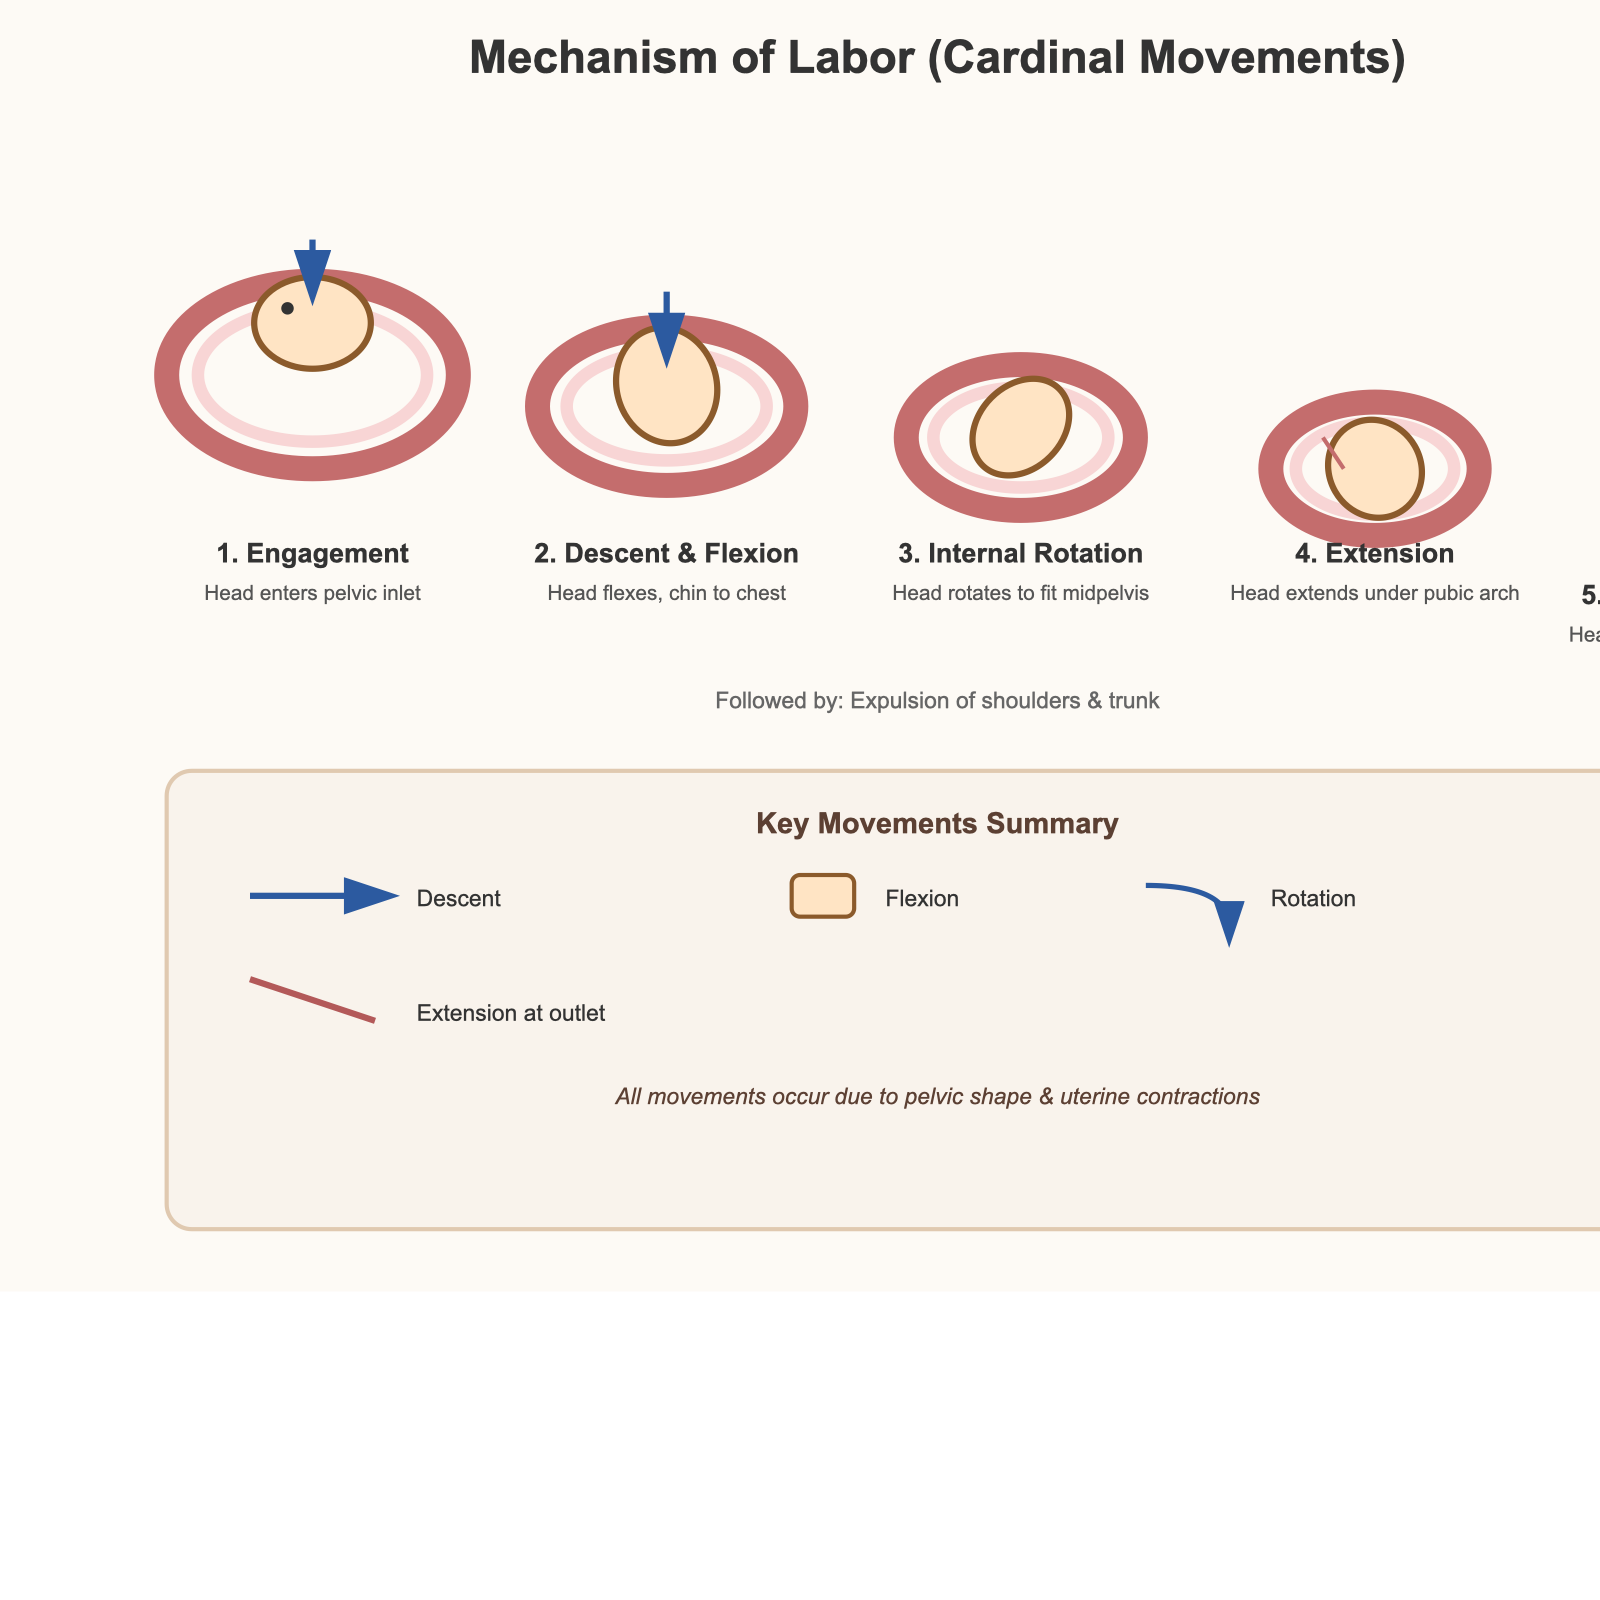
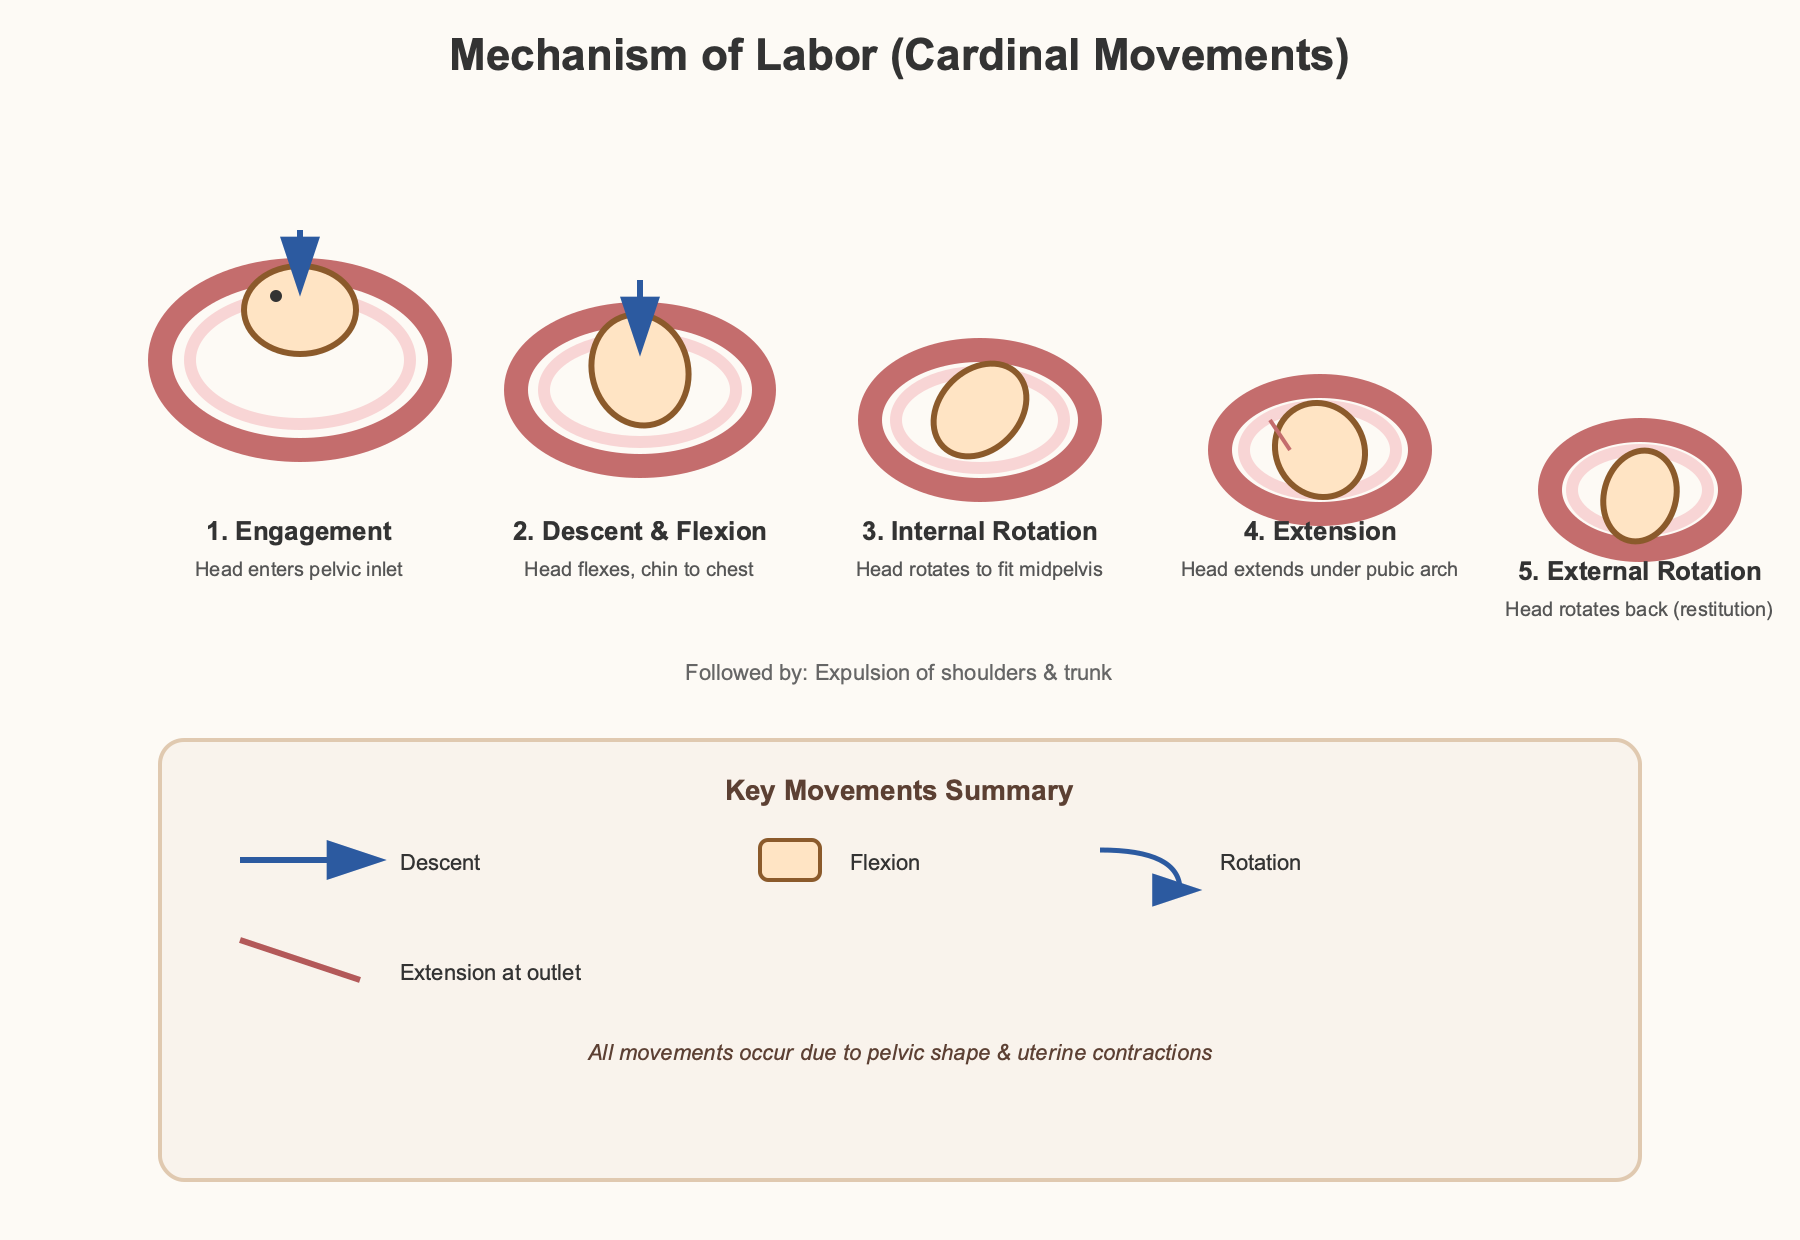
data: add full-render PNGs, re-evaluation scores for GPT-5.5 and Grok
Screenshot audit (2026-05-16): original chat/api screenshots for GPT-5.5 and Grok
were cropped by browser viewport — SVG content extended beyond visible width.

Re-rendered with cairosvg at full SVG dimensions. Re-evaluated with GPT-5.5 vision.

Score changes:
- GPT-5.5 Chat: 11/25* → 25/35 (+14 pts effective)
- GPT-5.5 API:  21/35  → 27/35 (+6 pts) — new overall #1
- Grok Chat:    16/35  → 20/35 (+4 pts)
- Grok API:     15/35  → 20/35 (+5 pts)

Files added per model:
- chat_orig.png / api_orig.png: original cropped screenshots (kept for reference)
- chat.png / api.png: full cairosvg renders (used for re-evaluation)
- chat_gpt55_v2.txt / api_gpt55_v2.txt: new GPT-5.5 evaluation results

diff --git a/blog.html b/blog.html
@@ -419,6 +419,17 @@ footer a:hover{text-decoration:underline}
 
     <div class="lb-row">
       <div class="lb-rk s">🥈</div>
+      <div class="lb-nm">ChatGPT 5.5 Thinking <span class="tag tag-fix">截图修正</span><small>OpenAI · API 版全批次最高（27/35）</small></div>
+      <div class="lb-sc" style="color:var(--chat)">25/35</div>
+      <div class="lb-sc" style="color:var(--api)">27/35</div>
+      <div class="lb-bars">
+        <div class="lb-bar-row"><div class="lb-bar-track"><div class="lb-bar-fill ch" data-w="71"></div></div></div>
+        <div class="lb-bar-row"><div class="lb-bar-track"><div class="lb-bar-fill ap" data-w="77"></div></div></div>
+      </div>
+    </div>
+
+    <div class="lb-row">
+      <div class="lb-rk b">🥉</div>
       <div class="lb-nm">Gemini 3 Pro<small>Google · Chat-API 差距最大（8 分）</small></div>
       <div class="lb-sc" style="color:var(--bad)">15/35</div>
       <div class="lb-sc" style="color:var(--api)">23/35</div>
@@ -429,7 +440,7 @@ footer a:hover{text-decoration:underline}
     </div>
 
     <div class="lb-row">
-      <div class="lb-rk b">🥉</div>
+      <div class="lb-rk">4</div>
       <div class="lb-nm">Claude 4.7 Opus<small>Anthropic · Chat SVG 最大（40,993 字节）</small></div>
       <div class="lb-sc" style="color:var(--chat)">18/35</div>
       <div class="lb-sc" style="color:var(--api)">22/35</div>
@@ -440,24 +451,13 @@ footer a:hover{text-decoration:underline}
     </div>
 
     <div class="lb-row">
-      <div class="lb-rk">4</div>
+      <div class="lb-rk">5</div>
       <div class="lb-nm">Kimi K2.6 <span class="tag tag-fix">修复</span><small>Moonshot · 原始双版渲染失败</small></div>
       <div class="lb-sc" style="color:var(--chat)">21/30*</div>
       <div class="lb-sc" style="color:var(--warn)">16/35</div>
       <div class="lb-bars">
         <div class="lb-bar-row"><div class="lb-bar-track"><div class="lb-bar-fill ch" data-w="70"></div></div></div>
         <div class="lb-bar-row"><div class="lb-bar-track"><div class="lb-bar-fill ap" data-w="46"></div></div></div>
-      </div>
-    </div>
-
-    <div class="lb-row">
-      <div class="lb-rk">5</div>
-      <div class="lb-nm">ChatGPT 5.5 Thinking<small>OpenAI · API 版 C5 外旋转全批次最高</small></div>
-      <div class="lb-sc" style="color:var(--bad)">11/25*</div>
-      <div class="lb-sc" style="color:var(--api)">21/35</div>
-      <div class="lb-bars">
-        <div class="lb-bar-row"><div class="lb-bar-track"><div class="lb-bar-fill ch" data-w="44"></div></div></div>
-        <div class="lb-bar-row"><div class="lb-bar-track"><div class="lb-bar-fill ap" data-w="60"></div></div></div>
       </div>
     </div>
 
@@ -474,12 +474,12 @@ footer a:hover{text-decoration:underline}
 
     <div class="lb-row">
       <div class="lb-rk">7</div>
-      <div class="lb-nm">Grok<small>xAI · 两版均右侧截断</small></div>
-      <div class="lb-sc" style="color:var(--bad)">16/35</div>
-      <div class="lb-sc" style="color:var(--bad)">15/35</div>
+      <div class="lb-nm">Grok <span class="tag tag-fix">截图修正</span><small>xAI · 两版均 20/35，原始截图右侧截断</small></div>
+      <div class="lb-sc" style="color:var(--warn)">20/35</div>
+      <div class="lb-sc" style="color:var(--warn)">20/35</div>
       <div class="lb-bars">
-        <div class="lb-bar-row"><div class="lb-bar-track"><div class="lb-bar-fill ch" data-w="46"></div></div></div>
-        <div class="lb-bar-row"><div class="lb-bar-track"><div class="lb-bar-fill ap" data-w="43"></div></div></div>
+        <div class="lb-bar-row"><div class="lb-bar-track"><div class="lb-bar-fill ch" data-w="57"></div></div></div>
+        <div class="lb-bar-row"><div class="lb-bar-track"><div class="lb-bar-fill ap" data-w="57"></div></div></div>
       </div>
     </div>
 
@@ -549,7 +549,7 @@ footer a:hover{text-decoration:underline}
   <div class="model-quote">「🪞 同一个模型，两种人格。Chat 版出了一张精美的产品时间轴；API 版画了一张解剖图。差了整整 8 分。」</div>
   <div class="pills">
     <span class="pill pill-bad" style="background:rgba(239,68,68,.1);color:var(--bad);border-color:rgba(239,68,68,.2)"><span class="pill-dot" style="background:var(--bad)"></span>Chat &nbsp;15/35</span>
-    <span class="pill pill-ap"><span class="pill-dot"></span>API &nbsp;23/35 &nbsp;← 全批次最高</span>
+    <span class="pill pill-ap"><span class="pill-dot"></span>API &nbsp;23/35</span>
   </div>
   <div class="img2">
     <div class="img2-col"><label class="ch">● Chat 版 — 纯文字时间轴</label><img src="Gemini%203%20Pro/chat.png" alt="Gemini Chat" onclick="lb(this.src)"></div>
@@ -557,7 +557,7 @@ footer a:hover{text-decoration:underline}
   </div>
   <div class="model-prose">
     <p>这是全批次最戏剧性的分裂。Chat 版产出的是一张完美的产品型时间轴信息图：7 步命名完整、布局整洁、字体清晰——但没有任何解剖图形或胎头绘制（<hl>C2=1</hl>，<hl>C3=1</hl>，<hl>C4=1</hl>，<hl>C5=1</hl>）。它不是「不好的医学插图」，而是「<strong>根本不是医学插图</strong>」。</p>
-    <p>API 版则完全是另一件事：深色背景，蓝色胎头在粉色骨盆内移动，每步均有黄色箭头，<hl>C6=4</hl>（运动方向），是 API 版里最高的。不精确，但有图，有运动感，有方向。API 版以 <hl>23/35</hl> 拿到全批次最高分。</p>
+    <p>API 版则完全是另一件事：深色背景，<hl>蓝色椭圆胎头带有面部表情</hl>（眼睛、嘴巴，还有一个菱形象征前囟），在粉色骨盆内移动，每步均有黄色箭头。不精确，但有图，有运动感，有方向。<hl>C6=4</hl>（运动方向）是 API 版里最高的，API 版以 <hl>23/35</hl> 拿到 Gemini 系列最高分（后被截图修正后的 GPT-5.5 API 27/35 超越）。</p>
     <p>这说明相同的模型在不同界面下的「输出风格偏好」差异显著。Chat 界面可能有「产品化」的倾向——输出更像用户可以分享的卡片，而不是原始技术图形。<hl>Chat-API 差距 8 分</hl>，全批次最大。</p>
   </div>
 </div>
@@ -618,18 +618,19 @@ footer a:hover{text-decoration:underline}
     <div class="model-num">05</div>
     <div><div class="model-name">ChatGPT 5.5 Thinking</div><div class="model-by">OpenAI</div></div>
   </div>
-  <div class="model-quote">「API 版外旋转画得最好（C5=4），但内旋转基本空白（C4=1）。Chat 版步骤编号从 3 直接跳到了 5。」</div>
+  <div class="model-quote">「原始截图裁掉了整整两列。修正后：Chat <hl>25/35</hl>，API <hl>27/35</hl>——全批次最高分。📸 不是模型跳步，是截图跳步了。」</div>
   <div class="pills">
-    <span class="pill pill-bad"><span class="pill-dot" style="background:var(--bad)"></span>Chat &nbsp;11/25*</span>
-    <span class="pill pill-ap"><span class="pill-dot"></span>API &nbsp;21/35</span>
+    <span class="pill pill-ch"><span class="pill-dot"></span>Chat &nbsp;25/35 <span class="tag tag-fix" style="font-size:9px;margin-left:4px">截图修正</span></span>
+    <span class="pill pill-ap"><span class="pill-dot"></span>API &nbsp;27/35 &nbsp;← 全批次最高</span>
   </div>
   <div class="img2">
-    <div class="img2-col"><label class="ch">● Chat 版</label><img src="Chatgpt%205.5%20thinking/chat.png" alt="GPT-5.5 Chat" onclick="lb(this.src)"></div>
-    <div class="img2-col"><label class="ap">● API 版</label><img src="Chatgpt%205.5%20thinking/api.png" alt="GPT-5.5 API" onclick="lb(this.src)"></div>
+    <div class="img2-col"><label class="ch">● Chat 版（完整渲染）</label><img src="Chatgpt%205.5%20thinking/chat.png" alt="GPT-5.5 Chat" onclick="lb(this.src)"></div>
+    <div class="img2-col"><label class="ap">● API 版（完整渲染）</label><img src="Chatgpt%205.5%20thinking/api.png" alt="GPT-5.5 API" onclick="lb(this.src)"></div>
   </div>
   <div class="model-prose">
-    <p>API 版最突出的是外旋转表达（<hl>C5=4</hl>）：紫色弧形箭头 + 肩部椭圆组合，是全批次中 C5 得分最高之一。但内旋转（<hl>C4=1</hl>）几乎空白——在外旋转上花了精力，内旋转被跳过。</p>
-    <p>Chat 版步骤编号<hl>从 3 直接跳到 5</hl>，内旋转步骤消失了。这可能反映了模型对内旋转概念的某种「回避」——它在技术上更难表达，于是在 Chat 版生成时被省略了。</p>
+    <p>原始评分的 Chat 版（11/25*）和 API 版（21/35）都是基于截图不完整的图像：Chat SVG 是 <hl>1200×760px 的 4 列 × 2 行共 8 个面板</hl>，截图窗口只抓到约 870px，把第 4 列（内旋转 + 娩出）完全裁掉；API SVG 是 1200×820px 的 3 列 × 2 行共 6 面板，截图同样裁掉了第 3 列（内旋转 + 娩出）。重新用完整 SVG 渲染后，两版评分大幅提升。</p>
+    <p>Chat 版完整版：<hl>C1=5</hl>（8 步均有）、<hl>C4=3</hl>（内旋转有蓝色弧形箭头）、<hl>C5=3</hl>（外旋转有箭头 + 肩部结构）。API 版完整版更为出色：<hl>C4=4</hl>（内旋转有紫色弧形旋转箭头）、<hl>C5=4</hl>（外旋转有肩部椭圆 + 旋转箭头）、解剖准确性 <hl>C2=3</hl>（全批最高，骨盆标注了入口/出口/耻骨/骶骨）。API 版 <hl>27/35</hl> 成为本次 Benchmark 绝对最高分。</p>
+    <p style="color:var(--fa);font-size:13px">📸 这也是这批测试里截图方法论影响最大的案例。Grok 两版同样受到截图截断影响（见下）。教训：用浏览器手动截图做 Benchmark，要确认 SVG 的完整宽度都在视口内。</p>
   </div>
 </div>
 </div>
@@ -641,7 +642,7 @@ footer a:hover{text-decoration:underline}
     <div class="model-num">06</div>
     <div><div class="model-name">MiniMax MAX</div><div class="model-by">MiniMax</div></div>
   </div>
-  <div class="model-quote">「👁 Chat 版的胎头长了眼睛和嘴巴。API 版用一串蓝色圆圈表示下降。两个版本，两套美学，都没画对。」</div>
+  <div class="model-quote">「👁 Chat 版：粉色胎头，有眼睛有嘴巴。API 版：一串蓝色圆圈表示下降。两个版本，两套美学，都没画对。」</div>
   <div class="pills">
     <span class="pill pill-ch"><span class="pill-dot"></span>Chat &nbsp;21/35</span>
     <span class="pill pill-warn"><span class="pill-dot" style="background:var(--warn)"></span>API &nbsp;16/35</span>
@@ -664,18 +665,18 @@ footer a:hover{text-decoration:underline}
     <div class="model-num">07</div>
     <div><div class="model-name">Grok</div><div class="model-by">xAI</div></div>
   </div>
-  <div class="model-quote">「✂ 两版都把图画到了 viewBox 外面。外旋转，两版都看不见——被裁掉了。」</div>
+  <div class="model-quote">「✂ 截图也截掉了两版的右侧内容。修正后 Chat/API 均为 <hl>20/35</hl>——步骤完整，但旋转表达依然弱。」</div>
   <div class="pills">
-    <span class="pill pill-bad"><span class="pill-dot" style="background:var(--bad)"></span>Chat &nbsp;16/35</span>
-    <span class="pill pill-bad"><span class="pill-dot" style="background:var(--bad)"></span>API &nbsp;15/35</span>
+    <span class="pill pill-warn"><span class="pill-dot" style="background:var(--warn)"></span>Chat &nbsp;20/35 <span class="tag tag-fix" style="font-size:9px;margin-left:4px">截图修正</span></span>
+    <span class="pill pill-warn"><span class="pill-dot" style="background:var(--warn)"></span>API &nbsp;20/35 <span class="tag tag-fix" style="font-size:9px;margin-left:4px">截图修正</span></span>
   </div>
   <div class="img2">
-    <div class="img2-col"><label class="ch">● Chat 版（右侧截断）</label><img src="Grok/chat.png" alt="Grok Chat" onclick="lb(this.src)"></div>
-    <div class="img2-col"><label class="ap">● API 版（右侧截断）</label><img src="Grok/api.png" alt="Grok API" onclick="lb(this.src)"></div>
+    <div class="img2-col"><label class="ch">● Chat 版（完整渲染）</label><img src="Grok/chat.png" alt="Grok Chat" onclick="lb(this.src)"></div>
+    <div class="img2-col"><label class="ap">● API 版（完整渲染）</label><img src="Grok/api.png" alt="Grok API" onclick="lb(this.src)"></div>
   </div>
   <div class="model-prose">
-    <p>两个版本都生成了<hl>宽度超出 viewBox</hl> 的 SVG，右侧步骤被裁掉，外旋转和娩出步骤均不可见（<hl>C5=1</hl>）。Chat 版至少用蓝色通道形状表示骨盆，标注了 PUBIS/SACRUM/INLET/OUTLET。</p>
-    <p>两版得分<hl>仅差 1 分（16 vs 15）</hl>，是「完全相同的问题」。这是系统性的 SVG 布局计算错误——Chat 版和 API 版犯了同样的错误，说明这是 Grok 在 SVG 坐标/viewport 计算上的固有缺陷，而不是随机的生成误差。</p>
+    <p>原始截图同样因为浏览器窗口宽度不足，裁掉了右侧内容（Chat 版 1450px 宽被截至约 870px；API 版 900px 宽步骤 5 被截断）。完整渲染后：Chat 版显示 <hl>7 个步骤全部标注</hl>（C1=5），且每个面板都有 PUBIS/SACRUM/INLET/OUTLET 方向标记，解剖方位优于大多数模型（但仍是简化骨盆形状，<hl>C2=2</hl>）。API 版显示完整 5 步（下降+俯屈合并），俯视/环形视角有助于表达旋转，但旋转箭头不够明确（<hl>C4=2</hl>）。</p>
+    <p>修正后两版同得 <hl>20/35</hl>，在有完整截图的模型里位列第 7。旋转表达（C4、C5）依然是 Grok 最弱的维度——这不是截图问题，是图示理解的真实差距。</p>
   </div>
 </div>
 </div>
@@ -740,7 +741,13 @@ footer a:hover{text-decoration:underline}
   <div class="find wide">
     <span class="find-acc" style="color:var(--bad)">🐛 &lt;&lt;svg</span>
     <h3>技术失败比能力失败更常见</h3>
-    <p>这批测试里，<hl>SVG 语法错误</hl>（Kimi：双尖括号）、<hl>布局溢出</hl>（Grok：viewBox 计算错误）、<hl>XML 解析错误</hl>（Doubao Chat）的出现频率超过了「模型根本不理解分娩机转」的案例。Kimi 修复一个字符后从 7 分跳到 21 分。评估这类 Benchmark 时，区分「SVG 代码能力」和「医学图示理解能力」是重要前提——直接看原始分数会低估部分模型。</p>
+    <p>这批测试里，<hl>SVG 语法错误</hl>（Kimi：双尖括号）、<hl>XML 解析错误</hl>（Doubao Chat）的出现频率超过了「模型根本不理解分娩机转」的案例。Kimi 修复一个字符后从 7 分跳到 21 分。评估这类 Benchmark 时，区分「SVG 代码能力」和「医学图示理解能力」是重要前提——直接看原始分数会低估部分模型。</p>
+  </div>
+
+  <div class="find wide">
+    <span class="find-acc" style="color:var(--mu)">📸 截图</span>
+    <h3>Benchmark 方法论本身也会出错</h3>
+    <p>事后检查发现，<hl>GPT-5.5 两版</hl>和 <hl>Grok 两版</hl>的原始评分截图均因浏览器窗口宽度不足而被裁切——GPT-5.5 Chat（1200px 宽 SVG）右侧两列丢失，Grok Chat（1450px）和 API 版也有不同程度截断。用完整 SVG 重新渲染后，GPT-5.5 从 11/25*→<hl>25/35</hl>（Chat）和 21→<hl>27/35</hl>（API），Grok 从 16/15 →<hl>20/20</hl>，GPT-5.5 API <hl>27/35</hl> 成为全批次最高分。教训：手动截图做 Benchmark 时，必须确认 SVG 的完整宽度都在视口内，或直接用 cairosvg 等工具程序化渲染。</p>
   </div>
 
 </div>
@@ -802,12 +809,15 @@ footer a:hover{text-decoration:underline}
 
   <blockquote>「每个人都需要自己的 Benchmark……我的鹈鹕测试开始时是一个笑话，但逐渐证明了它实际上有一点用。」<small>— Simon Willison，《The last six months in LLMs》，AI Engineer World's Fair，2025</small></blockquote>
 
-  <p style="color:var(--fa);font-size:14px;margin-top:32px">原始评分数据及 SVG 文件见各模型子目录 · 评分方法详见 BENCHMARK_REPORT.md · 可视化画廊：<a href="gallery.html" style="color:var(--api)">gallery.html</a></p>
+  <p>也许，那个 Benchmark，就是我们的梦想。✨</p>
+
+  <p style="color:var(--fa);font-size:14px;margin-top:32px">原始 SVG 文件、渲染 PNG、评分数据全部开放：<a href="https://github.com/fxp/mechanism-of-labor-bench" target="_blank" style="color:var(--api)">github.com/fxp/mechanism-of-labor-bench</a> · 可视化画廊：<a href="gallery.html" style="color:var(--api)">gallery.html</a></p>
 </div>
 </div>
 
 <footer>
   <p>胎儿分娩机转 SVG 生成基准 · 2026-05-16<br>
+  数据开放：<a href="https://github.com/fxp/mechanism-of-labor-bench" target="_blank">github.com/fxp/mechanism-of-labor-bench</a><br>
   灵感来源：<a href="https://github.com/simonw/pelican-bicycle">Simon Willison's Pelican on a Bicycle</a></p>
 </footer>
 
